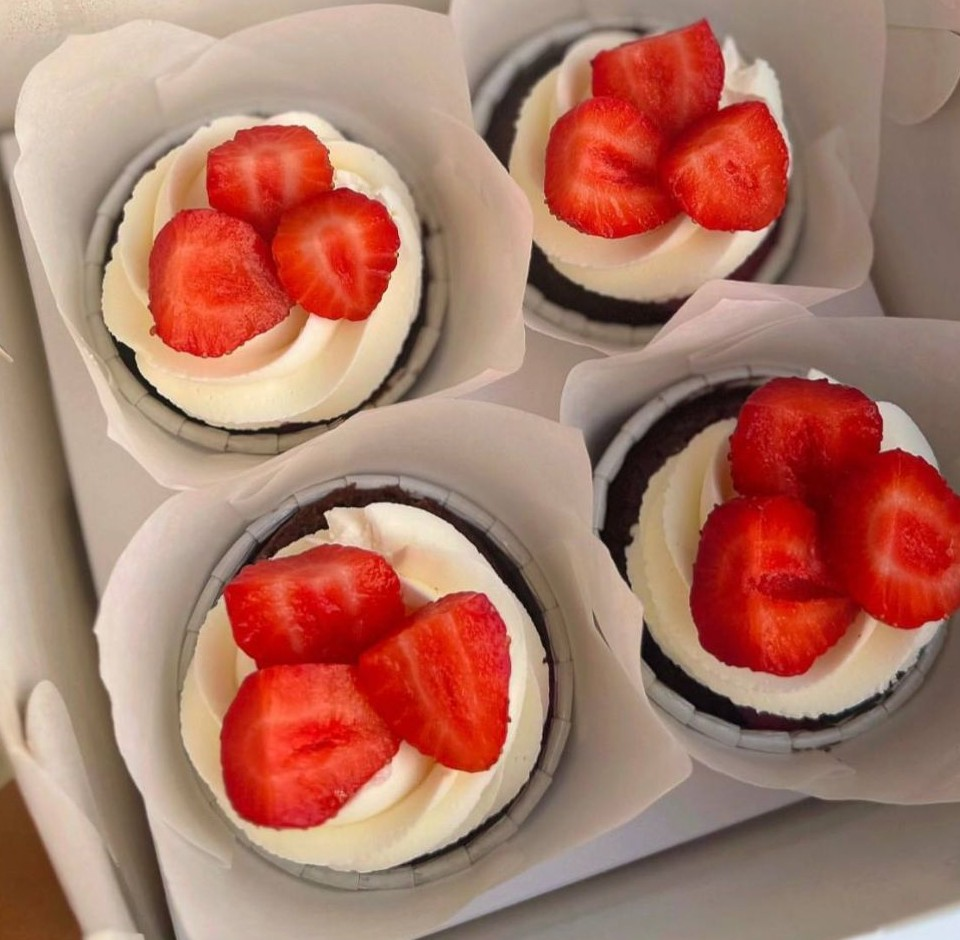
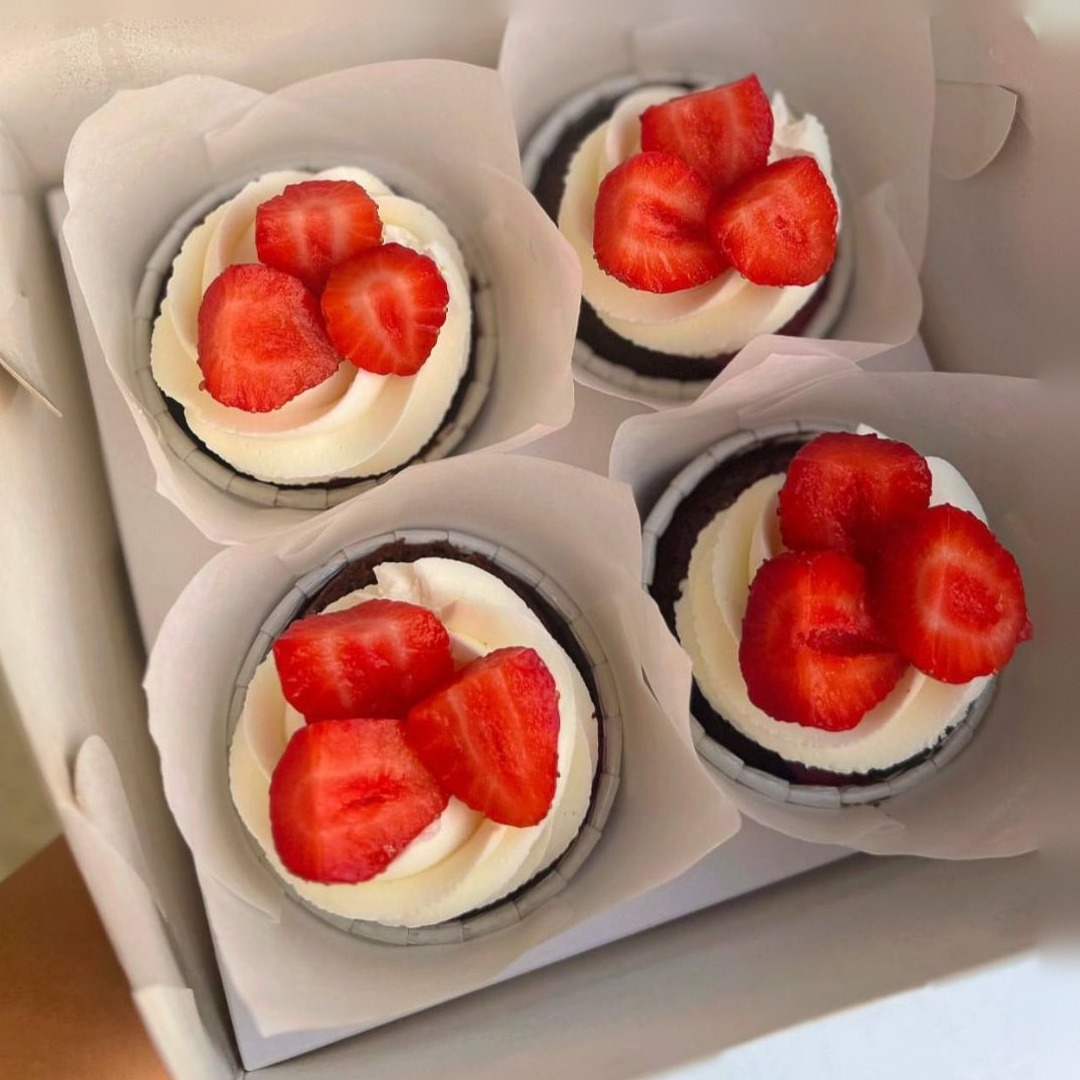
Telegram вместо WhatsApp, новая ссылка Instagram, переделаны фото десертов
- Заказы ведут в Telegram-канал t.me/violettacakee: все кнопки «Заказать», «Написать мне», окна начинок, липкая кнопка
- WhatsApp убран; в контактах Telegram, Instagram (violetta_cake_), «Позвонить»
- Фото десертов переснято из слайдов с запасом по краям: десерты видны целиком,
  надписи со слайдов убраны, недостающий фон дорисован
- Трайфл — без руки (кадр с отдельным стаканчиком), павлова — исправлено повреждение верхних ягод

diff --git a/src/data/site.ts b/src/data/site.ts
@@ -11,9 +11,11 @@ export const site = {
   url: 'https://violetta-cakes.vercel.app',
 
   contacts: {
-    telegram: '', // ник без @; пока не известен — кнопки Telegram скрыты, пока поле пустое
-    whatsapp: '79510086950', // номер только цифрами
-    instagram: 'violetta_cake',
+    // заказы принимаются в Telegram-канале
+    telegram: 'violettacakee',
+    telegramUrl: 'https://t.me/violettacakee',
+    instagram: 'violetta_cake_',
+    instagramUrl: 'https://www.instagram.com/violetta_cake_/',
     phone: '+7 951 008-69-50',
     phoneLink: '+79510086950',
   },
@@ -31,7 +33,7 @@ export const site = {
   steps: [
     { title: 'Выберите начинку', text: 'Посмотрите меню начинок ниже. Если сомневаетесь — помогу подобрать.' },
     { title: 'Рассчитайте вес', text: '200 г на одного человека — тогда хватит по одному кусочку каждому.' },
-    { title: 'Напишите мне', text: 'В WhatsApp или Instagram (можно позвонить): дата, вес, начинка и пожелания по декору.' },
+    { title: 'Напишите мне', text: 'В Telegram или Instagram (можно позвонить): дата, вес, начинка и пожелания по декору.' },
     { title: 'Согласуем дизайн', text: 'Обсудим референсы, внесёте предоплату — и я бронирую дату.' },
   ],
 

diff --git a/src/scripts/ui.ts b/src/scripts/ui.ts
@@ -33,7 +33,7 @@ $$('[data-open-filling]').forEach((btn) =>
 );
 // клик «написать» внутри модалки закрывает её
 fContent?.addEventListener('click', (e) => {
-  if ((e.target as HTMLElement).closest('a[data-order]') && fDialog) setTimeout(() => closeDialog(fDialog), 200);
+  if ((e.target as HTMLElement).closest('a') && fDialog) setTimeout(() => closeDialog(fDialog), 200);
 });
 
 // лайтбокс галереи
@@ -86,11 +86,6 @@ $('[data-carousel-next]')?.addEventListener('click', () => step(1));
 
 // мобильная липкая кнопка: видна после hero и прячется у контактов
 const sticky = $('[data-sticky]');
-const sheet = $<HTMLDialogElement>('[data-sheet]');
-$('[data-open-sheet]')?.addEventListener('click', () => sheet && openDialog(sheet));
-sheet?.addEventListener('click', (e) => {
-  if ((e.target as HTMLElement).closest('a')) setTimeout(() => closeDialog(sheet), 200);
-});
 if (sticky) {
   const state = { hero: true, contacts: false };
   const io = new IntersectionObserver((entries) => {

diff --git a/src/content.config.ts b/src/content.config.ts
@@ -37,9 +37,7 @@ const desserts = defineCollection({
   schema: ({ image }) =>
     z.object({
       name: z.string(),
-      orderAs: z.string(), // как писать в сообщении заказа: «Хочу заказать …»
       image: image(),
-      focus: z.string().default('50% 50%'), // object-position для обрезки фото
       price: z.string().optional(),
       priceNote: z.string().optional(),
       tiers: z.array(z.object({ qty: z.string(), price: z.string() })).default([]),

diff --git a/src/content/desserts/cake-to-go.md b/src/content/desserts/cake-to-go.md
@@ -1,6 +1,5 @@
 ---
 name: 'Cake to go'
-orderAs: 'торт в стаканчике'
 image: '../../assets/desserts/cake-to-go.jpg'
 price: '750 ₽/шт'
 priceNote: 'Торт в стаканчике, который удобно взять с собой. Заказ от 2 штук.'

diff --git a/src/content/desserts/meringue-roll.md b/src/content/desserts/meringue-roll.md
@@ -1,6 +1,5 @@
 ---
 name: 'Меренговый рулет'
-orderAs: 'меренговый рулет'
 image: '../../assets/desserts/meringue-roll.jpg'
 price: '3600 ₽ / 1,5 кг'
 priceNote: 'Декор из свежих ягод входит в стоимость.'

diff --git a/src/content/desserts/trifle.md b/src/content/desserts/trifle.md
@@ -1,8 +1,6 @@
 ---
 name: 'Трайфлы'
-orderAs: 'трайфлы'
 image: '../../assets/desserts/trifle.jpg'
-focus: '88% 50%'
 tiers:
   - { qty: '4 шт', price: '2500 ₽' }
   - { qty: '6 шт', price: '3000 ₽' }

diff --git a/src/content/desserts/cup-cake.md b/src/content/desserts/cup-cake.md
@@ -1,8 +1,6 @@
 ---
 name: 'Торт в кружечке'
-orderAs: 'торт в кружечке'
 image: '../../assets/desserts/cup-cake.jpg'
-focus: '50% 40%'
 price: '3000 ₽'
 groups:
   - title: 'Начинки'

diff --git a/src/content/desserts/tiramisu.md b/src/content/desserts/tiramisu.md
@@ -1,8 +1,6 @@
 ---
 name: 'Тирамису'
-orderAs: 'тирамису'
 image: '../../assets/desserts/tiramisu.jpg'
-focus: '50% 40%'
 price: '2900 ₽/кг'
 priceNote: 'Заказ от 2 кг.'
 groups:

diff --git a/src/content/desserts/cake-pops.md b/src/content/desserts/cake-pops.md
@@ -1,6 +1,5 @@
 ---
 name: 'Кейкпопсы'
-orderAs: 'кейкпопсы'
 image: '../../assets/desserts/cake-pops.jpg'
 price: '250 ₽/шт'
 priceNote: 'Заказ от 10 штук.'

diff --git a/src/content/desserts/cupcakes.md b/src/content/desserts/cupcakes.md
@@ -1,6 +1,5 @@
 ---
 name: 'Капкейки'
-orderAs: 'капкейки'
 image: '../../assets/desserts/cupcakes.jpg'
 tiers:
   - { qty: '4 шт', price: '2200 ₽' }

diff --git a/src/content/desserts/pavlova.md b/src/content/desserts/pavlova.md
@@ -1,6 +1,5 @@
 ---
 name: 'Торт «Павлова»'
-orderAs: 'торт «Павлова»'
 image: '../../assets/desserts/pavlova.jpg'
 price: '4000 ₽'
 groups:
